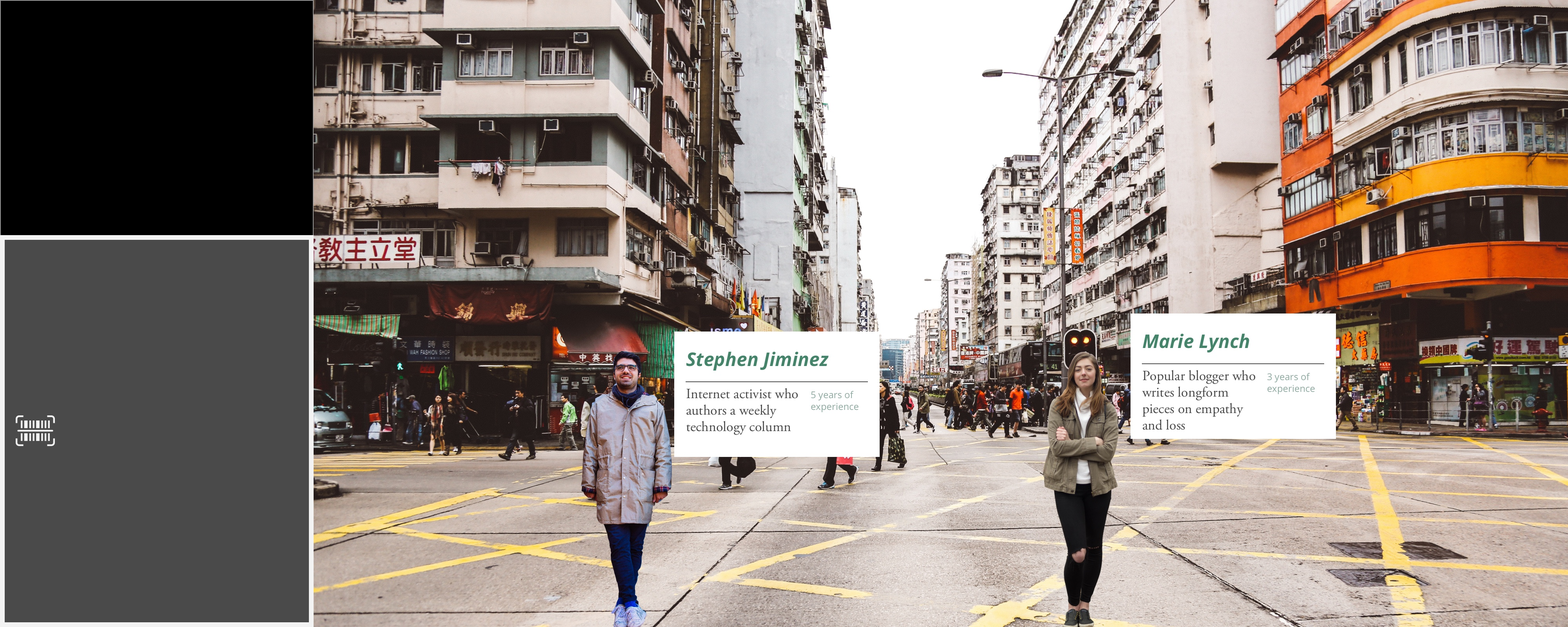
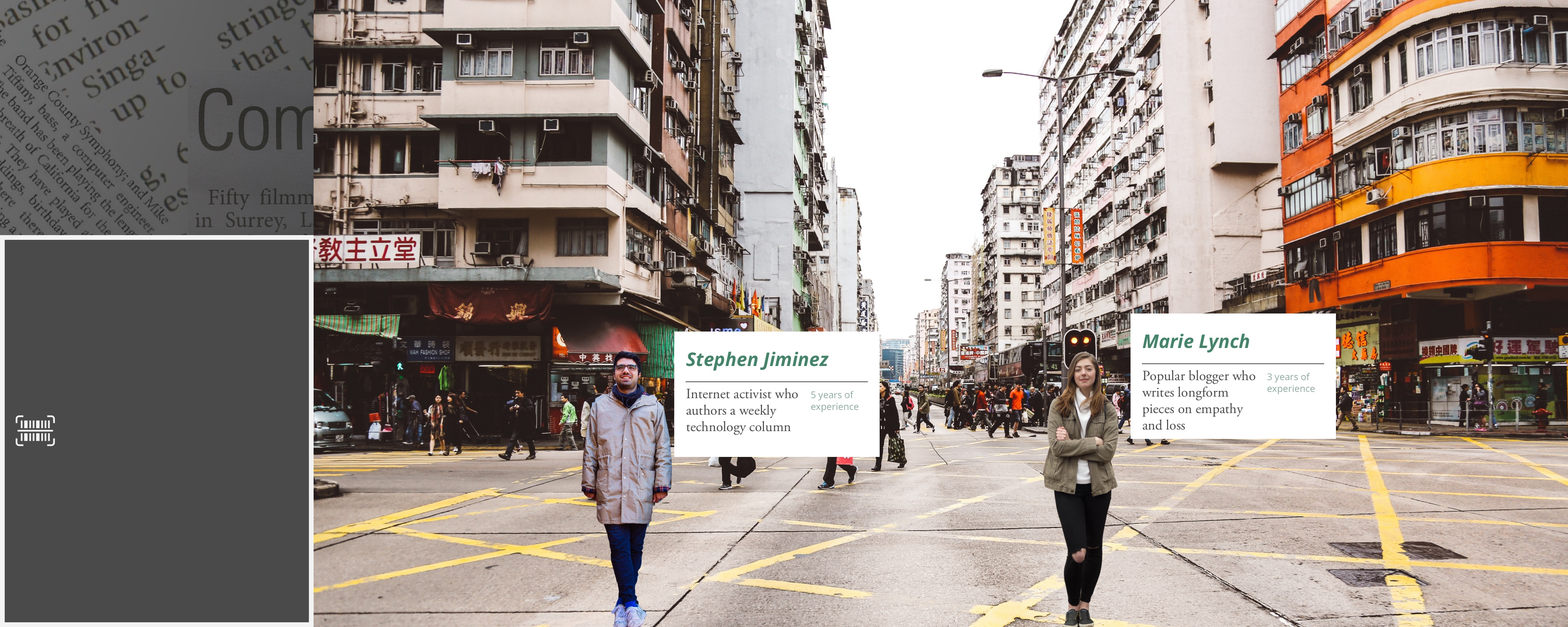
Updates

Changed region(s): [[0.0, 0.0, 0.2188, 0.375]]

diff --git a/4--viewpoint.html b/4--viewpoint.html
@@ -23,6 +23,10 @@
          <img src="assets/4/Headline%20-%20Wraparound%20wall3.png">
          <img src="assets/4/Headline%20-%20Wraparound%20wall4.png">
          <img src="assets/4/Publisher%20-%20Wraparound%20wall.png">
+         <img src="assets/4/Welcome_Left%20Wall_Display%202.jpg">
+         <img src="assets/4/Welcome_Left%20Wall_Display%203.jpg">
+         <img src="assets/4/Welcome_Left%20Wall_Display%204.jpg">
+         <img src="assets/4/interview-right-active@2x.jpg">
       </a-assets>
 
       <!-- Global Settings -->
@@ -73,7 +77,7 @@
       <!-- Room: Photobooth -->
       <a-entity position="7.5 0 2.5" rotation="0 -90 0" visible="true">
          <!-- Left -->
-         <a-plane height="4" width="3" position="-1.5 2 0" rotation="0 90 0" src="assets/4/Welcome_Left%20Wall_Display%204.jpg"></a-plane>
+         <a-plane height="4" width="3" position="-1.5 2 0" rotation="0 90 0" src="assets/4/Welcome_Left%20Wall_Display.jpg" data-alt-src="assets/4/Welcome_Left%20Wall_Display%202.jpg,assets/4/Welcome_Left%20Wall_Display%203.jpg,assets/4/Welcome_Left%20Wall_Display%204.jpg"></a-plane>
          <!-- Back -->
          <a-plane height="4" width="3" position="0 2 -1.5" src="assets/4/Welcome_Back%20Wall_Exit.jpg"></a-plane>
          <!-- Right -->
@@ -127,7 +131,7 @@
          <!-- Back -->
          <a-plane height="4" width="10" position="0 2 -5" src="assets/4/interview-back@2x.jpg"></a-plane>
          <!-- Right -->
-         <a-plane height="4" width="10" position="5 2 0" rotation="0 -90 0" src="assets/4/interview-right@2x.jpg"></a-plane>
+         <a-plane height="4" width="10" position="5 2 0" rotation="0 -90 0" src="assets/4/interview-right@2x.jpg" data-alt-src="assets/4/interview-right-active@2x.jpg"></a-plane>
          <!-- Front -->
          <a-plane height="4" width="10" position="0 2 5" rotation="0 180 0" src="assets/4/interview-front@2x.jpg"></a-plane>
       </a-entity>
